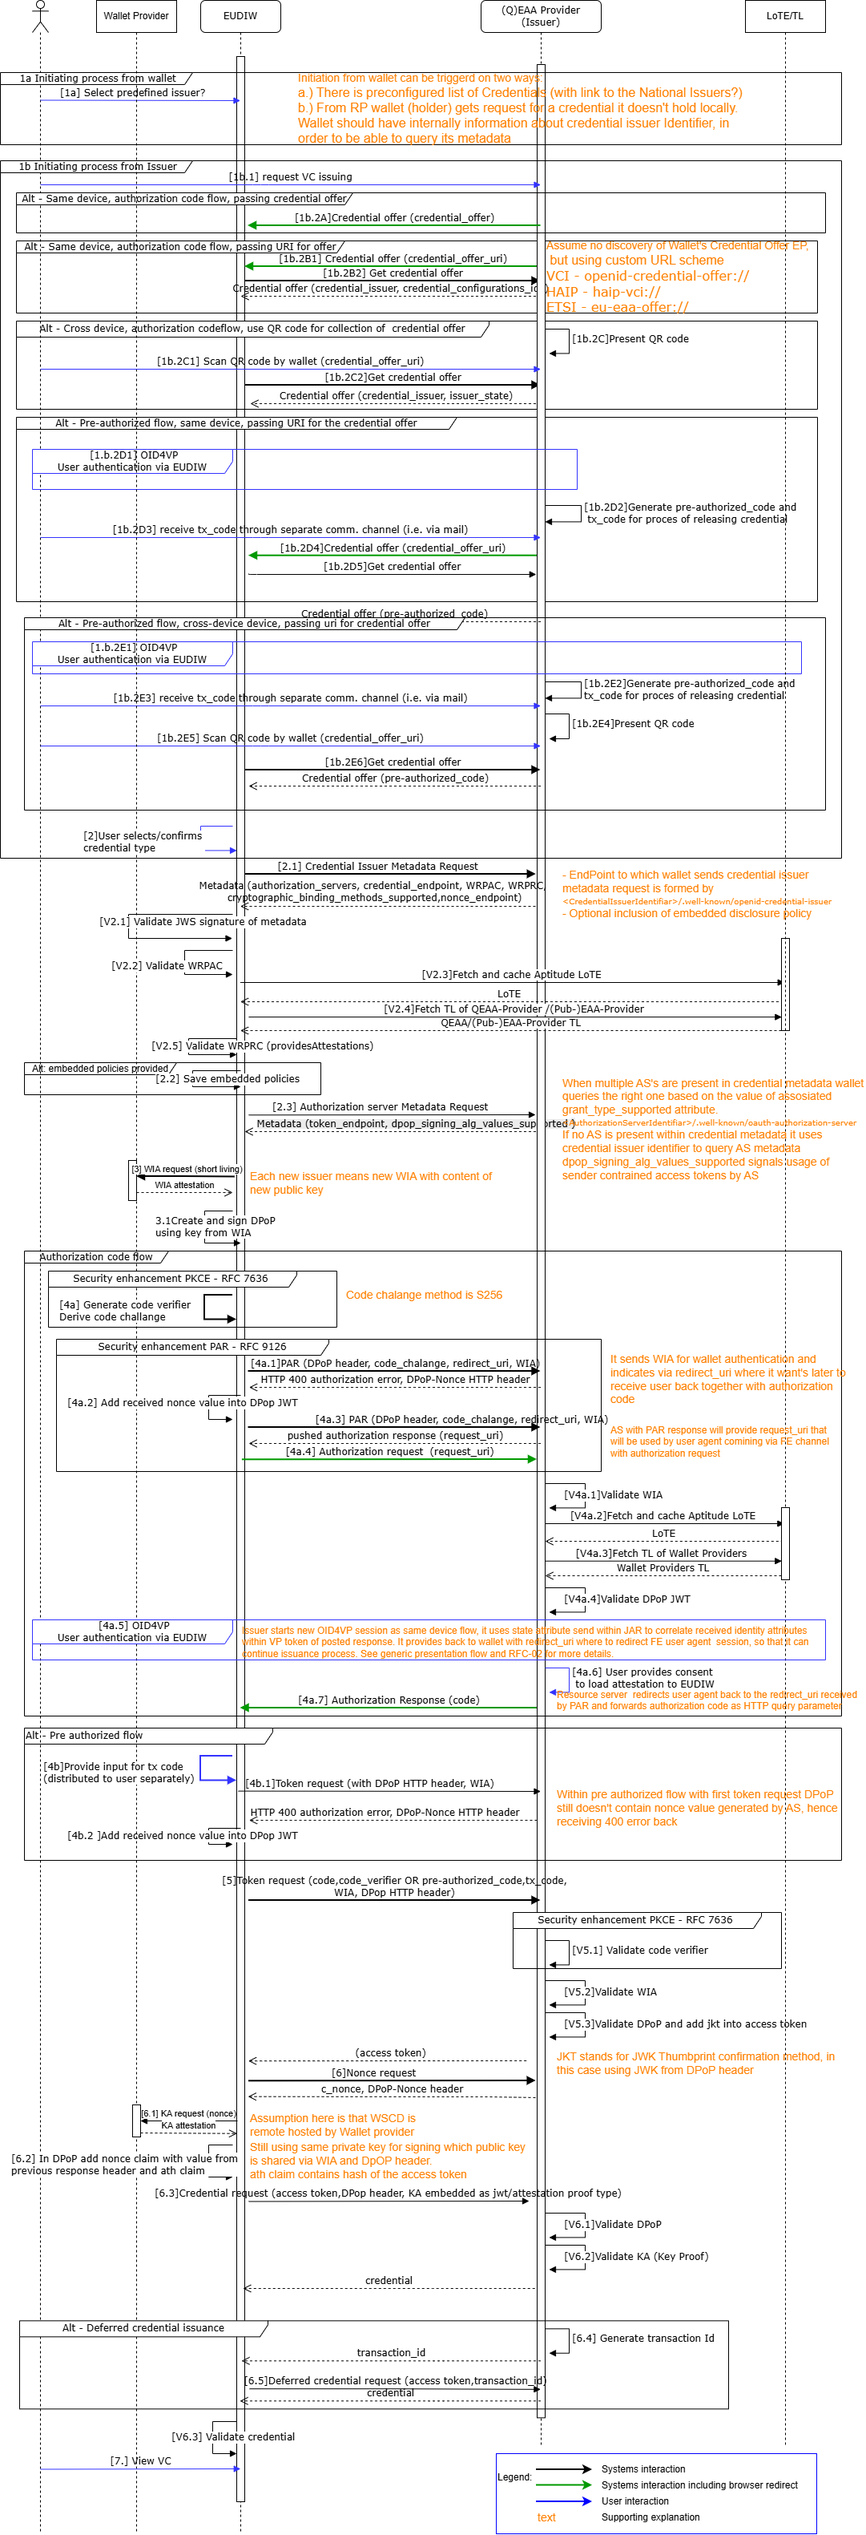
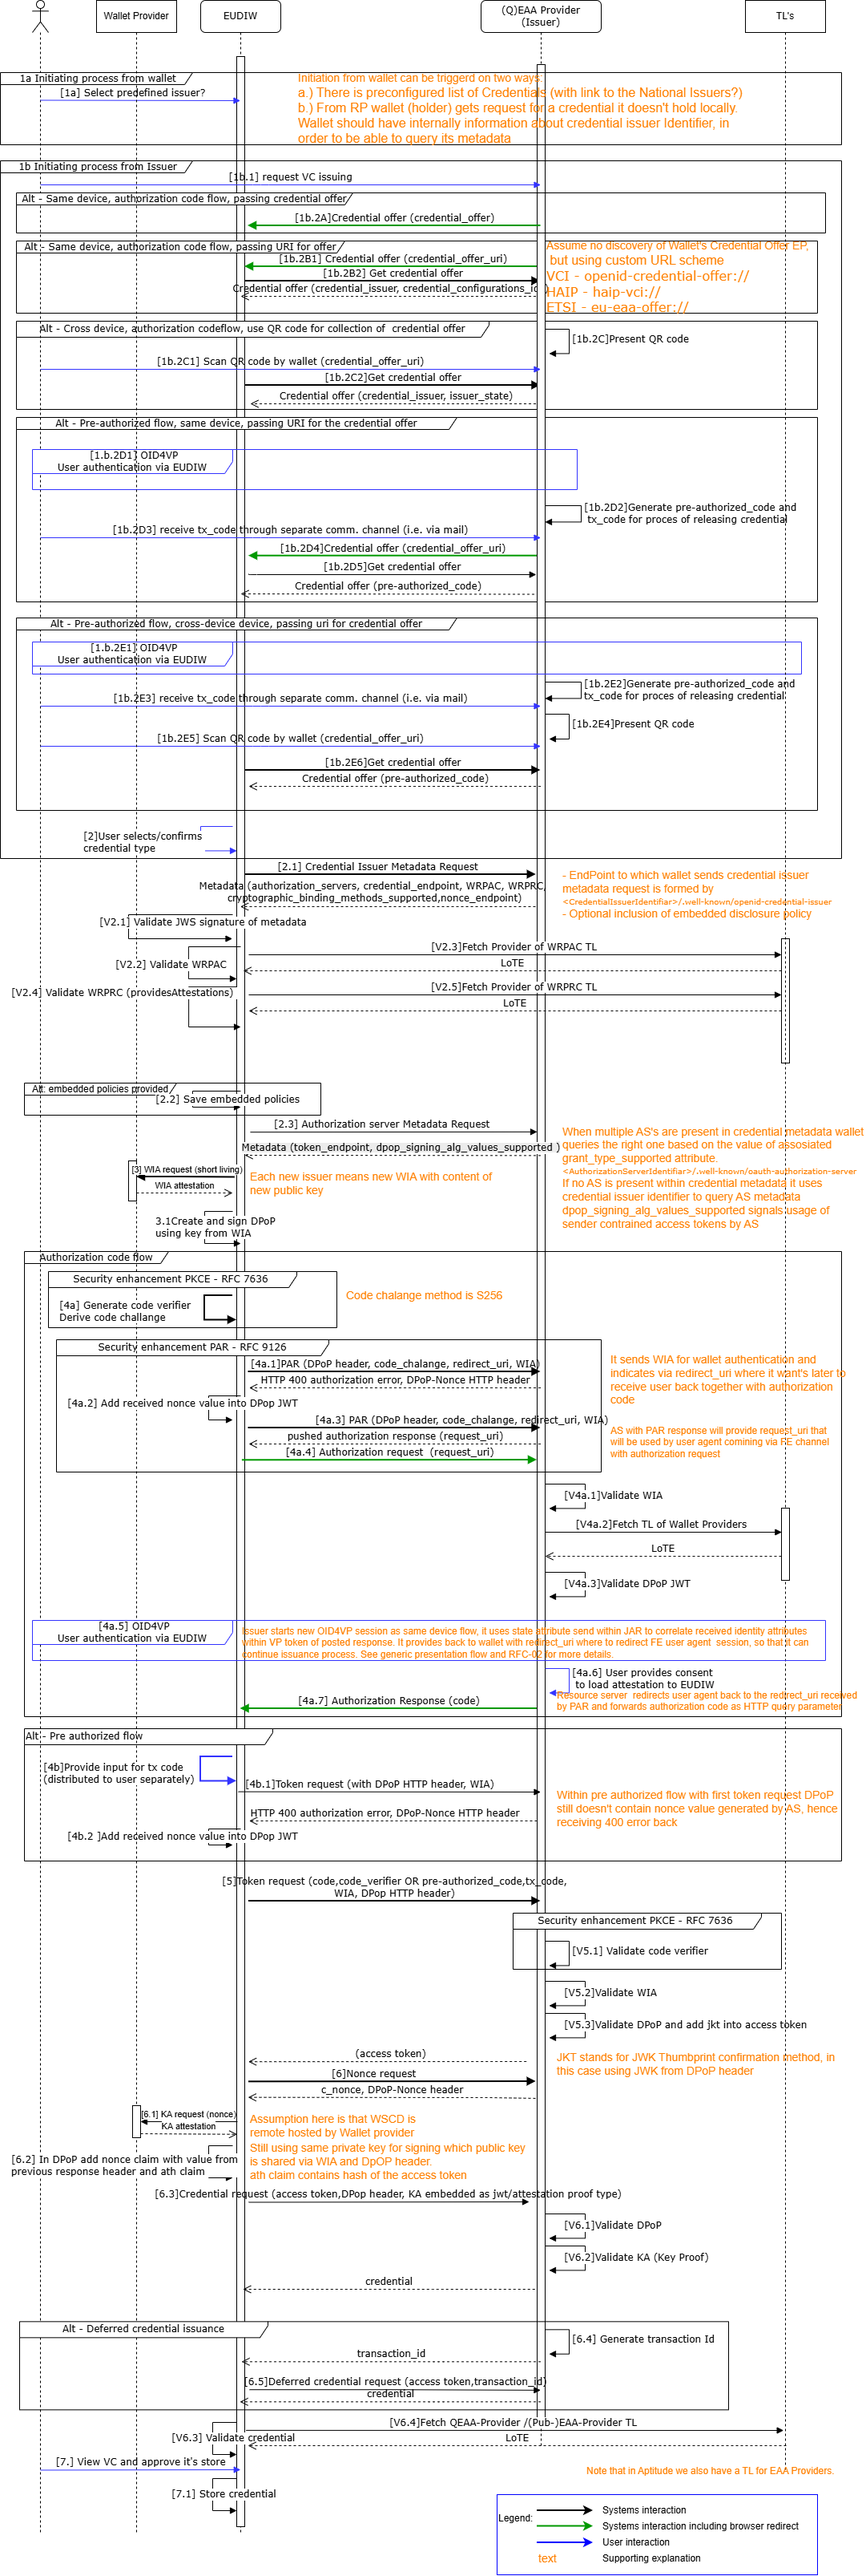
Update from 1st review on trust related checks
See Issue#111 (https://github.com/APTITUDE-Consortium/wp2-trust-specifications/issues/111) for details

diff --git a/docs/wp2/Generic issuance flow specification.md b/docs/wp2/Generic issuance flow specification.md
@@ -1,13 +1,13 @@
 # Generic issuance flow specification
 
-Version 0.2 (draft)
-Date 31-07-2026
+Version 0.9 (draft)
+Date 18-08-2026
 
 ## Authors
 
 1. Aleksandar Simsic, ICTU
 2. Nikos Triantafyllou, University of the Aegean
-3. ....
+3. Andrea Moro, Fondazione Bruno Kessler
 
 ## Reviewers
 
@@ -54,7 +54,6 @@ Here we are only clarifying which roles and/or interfaces are out of the scope o
 | Authentic Source → Issuer | How the Issuer retrieves data from the national authentic source | Assumed to be resolved at national level by each partner acting as Issuer |
 | QTSP → Attribute Catalogue | Citizen-initiated flow where a QTSP validates and issues a VC from scratch | No WP in APTITUDE covers this scenario |
 | Wallet → APTITUDE Register (runtime) | Runtime lookup from Wallet to APTITUDE Register | Redundant: WRPRC is provisioned at onboarding time (design-time); registration certificate is becoming mandatory per 2025/848 IA.<br><br>*Note: A Wallet Instance MAY still use the Register APIs to:*<ul><li>*Check fresh Entity registration information as a backup to the WRPRC failure,*</li><li>*Check that the Registration certificate obtained by the WRP is bound to the service the Wallet Instance is interacting with.*</li></ul> |
-| Issuer → Wallet Provider | Issuer check run time or periodically revocation of WIA and/or KA | Clarification pending with Aptitude WP2 trustgroup team  |
 
 ### 2.1 Relation between different standards and interfaces
 
@@ -111,9 +110,18 @@ Providers, Providers of Access and Register Certificate)</td>
 <tr>
 <td>O4</td>
 <td><a
-href="https://github.com/eu-digital-identity-wallet/eudi-doc-standards-and-technical-specifications/blob/main/docs/technical-specifications/ts3-wallet-unit-attestation.md">TS3</a>, <a
+href="https://github.com/eu-digital-identity-wallet/eudi-doc-standards-and-technical-specifications/blob/main/docs/technical-specifications/ts3-wallet-unit-attestation.md">TS3 ver1.5.2</a></td>
+<td>Issuing of WUAs (WIA \\\&amp; KAs) for WI as per <a
 href="https://eur-lex.europa.eu/legal-content/EN/TXT/PDF/?uri=OJ:L_202601731">CIR 2026/1731</a></td>
-<td>Issuing of WUAs (WIA \\\&amp; KAs) for WI</td>
+</tr>
+<tr>
+<td>O5</td>
+<td><a
+href="https://github.com/eu-digital-identity-wallet/eudi-doc-standards-and-technical-specifications/blob/main/docs/technical-specifications/ts3-wallet-unit-attestation.md">TS3 ver1.5.2</a>, <a
+href="https://aptitude-consortium.github.io/wp2-trust-specifications/latest/sections/trust-management-lifecycle/">APTITUDE Trust management and lifecycle</a>, <a
+href="https://datatracker.ietf.org/doc/draft-ietf-oauth-status-list/21/">IETF Token Status List Draft 21</a></td>
+<td>Scheduled revocation checks for WIA and KA as per <a
+href="https://eudi.dev/3.0.0/annexes/annex-2/annex-2.02-high-level-requirements-by-topic/#a2322-topic-38-wallet-unit-revocation">ARF Topic 38</a> and requirement WURevocation_19</td>
 </tr>
 <tr>
 <td>R1</td>
@@ -157,16 +165,17 @@ TS 119 612 ver2.4.1</a></td>
 <tr>
 <td>R4</td>
 <td><a
-href="https://github.com/eu-digital-identity-wallet/eudi-doc-standards-and-technical-specifications/blob/main/docs/technical-specifications/ts3-wallet-unit-attestation.md#222-transport-of-key-attestation-ka">TS3 ver1.5.2</a>, <a
+href="https://github.com/eu-digital-identity-wallet/eudi-doc-standards-and-technical-specifications/blob/main/docs/technical-specifications/ts3-wallet-unit-attestation.md#222-transport-of-key-attestation-ka">TS3 ver1.5.2</a></td>
+<td>Signing WIA and KA as per <a
 href="https://eur-lex.europa.eu/legal-content/EN/TXT/PDF/?uri=OJ:L_202601731">CIR 2026/1731</a></td>
-<td>Signing WIA and KA</td>
 </tr>
 <tr>
-<td>R5/O5</td>
+<td>R5</td>
 <td><a
 href="https://github.com/eu-digital-identity-wallet/eudi-doc-standards-and-technical-specifications/blob/main/docs/technical-specifications/ts3-wallet-unit-attestation.md#243-pid-provider-and-attestation-provider-responsibilities">TS3 ver1.5.2</a>, <a
-href="https://aptitude-consortium.github.io/wp2-trust-specifications/latest/sections/trust-management-lifecycle/">APTITUDE Trust management and lifecycle</a></td>
-<td>Runtime/operational schedule, status, and key-storage status checks on WIA/KA; the WIA checks are to be profiled precisely in <a href="../horizontal-RFCs/RFC004.md">RFC004</a>.</td>
+href="https://aptitude-consortium.github.io/wp2-trust-specifications/latest/sections/trust-management-lifecycle/">APTITUDE Trust management and lifecycle</a>, <a
+href="https://datatracker.ietf.org/doc/draft-ietf-oauth-status-list/21/">IETF Token Status List Draft 21</a></td>
+<td>Runtime status, and key-storage status checks on WIA/KA; the checks are to be profiled precisely in <a href="../horizontal-RFCs/RFC004.md">RFC004</a>.</td>
 </tr>
 </tbody>
 </table>
@@ -227,7 +236,7 @@ impacting issuance flow and designed validation checks.
 |Issuer and wallet unit shall support access and registration certificate of (Pub-)EAA provider|In scope|
 |Issuer may support inclusion of embedded disclosure policy and wallet unit shall process it|In scope|
 |Wallet unit shall include WIA to the push authorization and token endpoint|In scope|
-|Wallet unit shall include KA to the credential endpoint|In scope|
+|Wallet unit shall include KA to the credential endpoint when issuing device bout attestation|In scope|
 |Holder shall prove the possession of private key associated to the public key in KA|In scope|
 |Proofing that the same WSCA/WSCD possesses the private keys associated to the public keys in the WIA and one used for the attestation binding|In scope|
 |Issuer metadata shall be signed as per [OID4VCI instructions](https://openid.net/specs/openid-4-verifiable-credential-issuance-1_0.html#name-signed-metadata)|In scope|
@@ -240,10 +249,12 @@ In some cases to simplify implementation for the partners there are number of ad
 |**Requirement**|**Scope decision**|
 |-|-|
 |Issuer and wallet unit shall use so called "combined mode" using only DPoP proof, as per [IETF oAuth attestation based client authentication DPoP Combined Mode](https://datatracker.ietf.org/doc/html/draft-ietf-oauth-attestation-based-client-auth-10#name-dpop-combined-mode) |In scope|
-|Wallet unit shall use short-lived (TTL less than 24h) KAs|In scope|
-|PID Provider shall check the status of the KA before issuance, including when the KA is short-lived|In scope|
+|Issuer authorization and resource servers shall mandate using of fresh nonce value within the DPoP |In scope|
+|Issuer shall offer Nonce Endpoint  |In scope|
+|Issuer shall require a presence of WIA and DPoP header on token endpoint for pre-authorized code flow  |In scope|
+|The issuer shall check the status of the KA before issuance of the credential|In scope|
 |Wallet shall send WIA at the PAR and Token endpoints for Authorization Code Flow, prove possession of the WIA `cnf` key, and Issuers shall validate the WIA signature, expiry, and proof of possession as profiled in [RFC-01](https://github.com/APTITUDE-Consortium/aptitude-eudi-wallet-specs/blob/main/docs/horizontal-RFCs/RFC001.md#73-authorisation-endpoint-and-par)|In scope|
-|Wallet shall send WUA/KA at the Credential Endpoint using the selected proof method, and Issuers shall validate the WUA/KA and bind issued credentials to the attested keys as profiled in [RFC-01](https://github.com/APTITUDE-Consortium/aptitude-eudi-wallet-specs/blob/main/docs/horizontal-RFCs/RFC001.md#75-credential-endpoint)|In scope|
+|Wallet shall send KA at the Credential Endpoint using the selected proof method, and Issuers shall validate the KA and bind issued credentials to the attested keys as profiled in [RFC-01](https://github.com/APTITUDE-Consortium/aptitude-eudi-wallet-specs/blob/main/docs/horizontal-RFCs/RFC001.md#75-credential-endpoint)|In scope|
 |Trust anchors for (Q)EAA Providers shall be present in a dedicated LoTE|In scope|
 |Authentic Source integration|Not in scope|
 |Common Credential Catalogue discovery|Not in scope|
@@ -254,9 +265,10 @@ The generic issuance flow does not define an Authentic Source interface or a com
 
 E2E issuance flow is presented through sequence diagram (SD) and after that each step is linked to the relevant Aptitude profile specification document. Referenced specs are:
 
-* [Aptitude Issuance profile RFC-01 ver 0.1](https://github.com/APTITUDE-Consortium/aptitude-eudi-wallet-specs/blob/main/docs/horizontal-RFCs/RFC001.md)
-* [Aptitude Trust Evaluation RFC-03 ver 0.1](https://github.com/APTITUDE-Consortium/aptitude-eudi-wallet-specs/blob/rfc003-trust/docs/horizontal-RFCs/RFC003.md)
-* [Aptitude trust framework ver 0.2](https://github.com/APTITUDE-Consortium/wp2-trust-specifications/blob/main/docs/trust-framework.md)
+* [Aptitude Issuance profile RFC-01](https://github.com/APTITUDE-Consortium/aptitude-eudi-wallet-specs/blob/main/docs/horizontal-RFCs/RFC001.md)
+* [Aptitude Trust Evaluation RFC-03](https://github.com/APTITUDE-Consortium/aptitude-eudi-wallet-specs/blob/rfc003-trust/docs/horizontal-RFCs/RFC003.md)
+* [Aptitude Trust Evaluation RFC-04](https://github.com/APTITUDE-Consortium/aptitude-eudi-wallet-specs/blob/main/docs/horizontal-RFCs/RFC004.md)
+* [Aptitude trust framework](https://aptitude-consortium.github.io/wp2-trust-specifications/latest/trust-framework/)
 
 Within the following diagram we introduce the LoTE Provider endpoint as specified in [RFC003](https://github.com/APTITUDE-Consortium/aptitude-eudi-wallet-specs/blob/rfc003-trust/docs/horizontal-RFCs/RFC003.md#71-lote-endpoint). Each entity type (Wallet Provider, PID/Attestation Provider, WRPAC/WRPRC Provider) has a unique LoTE published at a specific endpoint detailed in the Official Journal of Aptitude (OJA), which will be made available by WP2 in piloting. The diagram abstracts these different LoTE endpoints into a single LoTE Provider interaction.
 
